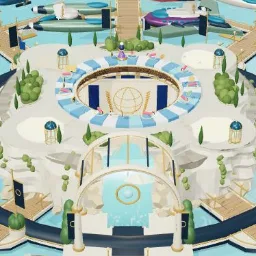
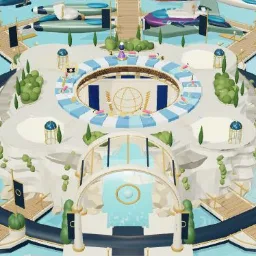
Island 001 opening: the real game controller flies in and suits up into the white ship
- The first-arrival craft is now the actual game controller shell (buttons off),
  its roll window showing the Island 001 treetop inside with fireflies and a glass
  reflection. It flies the whole route: fast travel, reveal, descent, ocean braking.
- 13.4-14.4 s: white armour plates fly in and lock onto the controller (Iron Man
  style), the shell glows white and a soft bloom hands over to the white
  expedition ship, which then unfolds as before.
- First-arrival review gains a Suit chapter; Island 001 voyage portrait refreshed.

Claude-Session: https://claude.ai/code/session_01JiAyTZEzKKBDjh6881R4g6

diff --git a/src/features/gamification/level-worlds/dev/Island001ArrivalController.ts b/src/features/gamification/level-worlds/dev/Island001ArrivalController.ts
@@ -1,0 +1,166 @@
+import * as THREE from 'three';
+import { GLTFLoader } from 'three/addons/loaders/GLTFLoader.js';
+
+/**
+ * Island 001 opening: the real game controller shell flies in — buttons off,
+ * its roll window showing the treetop inside — then suits up in white armour
+ * plates and flashes into the expedition ship's white expansion phase.
+ * Presentation only; never touches gameplay state.
+ */
+const SHELL_URL = new URL('../components/living-controller/controller-shell.glb', import.meta.url).href;
+/** Controller → white-phase transformation window (seconds of the arrival). */
+export const ARRIVAL_CONTROLLER_SUIT_START = 13.4;
+export const ARRIVAL_CONTROLLER_SUIT_END = 14.4;
+/** Share of the suit-up at which the white flash hands over to the ship. */
+export const ARRIVAL_CONTROLLER_HANDOFF = 0.7;
+
+const smooth = (t: number) => { const x = THREE.MathUtils.clamp(t, 0, 1); return x * x * (3 - 2 * x); };
+
+function drawTreetopWindow(): THREE.CanvasTexture {
+  const canvas = document.createElement('canvas');
+  canvas.width = 512; canvas.height = 196;
+  const c = canvas.getContext('2d')!;
+  const r = 60;
+  c.beginPath();
+  c.moveTo(r, 0); c.lineTo(512 - r, 0); c.quadraticCurveTo(512, 0, 512, r); c.lineTo(512, 196 - r);
+  c.quadraticCurveTo(512, 196, 512 - r, 196); c.lineTo(r, 196); c.quadraticCurveTo(0, 196, 0, 196 - r);
+  c.lineTo(0, r); c.quadraticCurveTo(0, 0, r, 0); c.closePath(); c.clip();
+  const sky = c.createLinearGradient(0, 0, 0, 196);
+  sky.addColorStop(0, '#0b2a4a'); sky.addColorStop(0.55, '#1f6f8b'); sky.addColorStop(1, '#f6c77a');
+  c.fillStyle = sky; c.fillRect(0, 0, 512, 196);
+  // Treetop: layered canopy rising from the bottom of the window.
+  const blobs: [number, number, number, string][] = [
+    [256, 250, 150, '#0d4a2c'], [170, 236, 92, '#12643a'], [345, 232, 96, '#12643a'],
+    [256, 190, 88, '#1c8a4a'], [205, 176, 60, '#27a85a'], [312, 172, 64, '#27a85a'], [258, 132, 52, '#3fcf73'],
+  ];
+  for (const [x, y, radius, color] of blobs) {
+    const g = c.createRadialGradient(x - radius * 0.3, y - radius * 0.4, radius * 0.1, x, y, radius);
+    g.addColorStop(0, '#8ef0a8'); g.addColorStop(0.35, color); g.addColorStop(1, '#06301b');
+    c.fillStyle = g; c.beginPath(); c.arc(x, y, radius, 0, Math.PI * 2); c.fill();
+  }
+  // Fireflies / life sparks above the canopy.
+  for (let i = 0; i < 14; i += 1) {
+    const x = 60 + ((i * 97) % 390), y = 20 + ((i * 53) % 90), s = 2 + (i % 3);
+    const g = c.createRadialGradient(x, y, 0, x, y, s * 4);
+    g.addColorStop(0, 'rgba(255,245,190,0.95)'); g.addColorStop(1, 'rgba(255,245,190,0)');
+    c.fillStyle = g; c.fillRect(x - s * 4, y - s * 4, s * 8, s * 8);
+  }
+  // Glass reflection streak.
+  const glass = c.createLinearGradient(0, 0, 512, 196);
+  glass.addColorStop(0.18, 'rgba(255,255,255,0)'); glass.addColorStop(0.28, 'rgba(255,255,255,0.22)'); glass.addColorStop(0.36, 'rgba(255,255,255,0)');
+  c.fillStyle = glass; c.fillRect(0, 0, 512, 196);
+  const texture = new THREE.CanvasTexture(canvas);
+  texture.colorSpace = THREE.SRGBColorSpace;
+  return texture;
+}
+
+export function createIsland001ArrivalController() {
+  const root = new THREE.Group();
+  root.name = 'ISLAND_001_ARRIVAL_CONTROLLER';
+  // Face up, top edge toward the ship's nose (+z), matching the ship's frame.
+  const faceUp = new THREE.Group();
+  faceUp.rotation.set(-Math.PI / 2, 0, 0);
+  const heading = new THREE.Group();
+  heading.rotation.y = Math.PI;
+  heading.scale.setScalar(0.9);
+  heading.add(faceUp);
+  root.add(heading);
+
+  const shellMaterial = new THREE.MeshPhysicalMaterial({
+    color: '#eef5fb', roughness: 0.28, metalness: 0.06, clearcoat: 1, clearcoatRoughness: 0.18,
+    emissive: new THREE.Color('#ffffff'), emissiveIntensity: 0,
+  });
+  const windowTexture = typeof document === 'undefined' ? null : drawTreetopWindow();
+  const windowMaterial = new THREE.MeshBasicMaterial({ map: windowTexture, transparent: true, toneMapped: false });
+  const plateMaterial = new THREE.MeshPhysicalMaterial({ color: '#ffffff', roughness: 0.2, clearcoat: 1, emissive: new THREE.Color('#dff6ff'), emissiveIntensity: 0.4, transparent: true, opacity: 0 });
+  const flashTexture = typeof document === 'undefined' ? null : (() => {
+    const canvas = document.createElement('canvas'); canvas.width = canvas.height = 128;
+    const c = canvas.getContext('2d')!;
+    const g = c.createRadialGradient(64, 64, 0, 64, 64, 64);
+    g.addColorStop(0, 'rgba(255,255,255,1)'); g.addColorStop(0.25, 'rgba(235,250,255,0.85)');
+    g.addColorStop(0.6, 'rgba(190,235,255,0.25)'); g.addColorStop(1, 'rgba(190,235,255,0)');
+    c.fillStyle = g; c.fillRect(0, 0, 128, 128);
+    const texture = new THREE.CanvasTexture(canvas); texture.colorSpace = THREE.SRGBColorSpace; return texture;
+  })();
+  // Soft white bloom, not a hard sphere.
+  const flashMaterial = new THREE.SpriteMaterial({ map: flashTexture, color: '#ffffff', transparent: true, opacity: 0, depthWrite: false, blending: THREE.AdditiveBlending, toneMapped: false });
+  const flash = new THREE.Sprite(flashMaterial);
+  flash.name = 'ARRIVAL_CONTROLLER_WHITE_FLASH';
+  root.add(flash);
+
+  // White armour plates that snap onto the controller during the suit-up.
+  const plateGeometry = new THREE.BoxGeometry(1.1, 0.12, 0.7);
+  const plates = Array.from({ length: 12 }, (_, i) => {
+    const mesh = new THREE.Mesh(plateGeometry, plateMaterial);
+    const angle = (i / 12) * Math.PI * 2;
+    mesh.userData.from = new THREE.Vector3(Math.cos(angle) * 5.2, (i % 3 - 1) * 1.6, Math.sin(angle) * 5.2);
+    mesh.userData.to = new THREE.Vector3(Math.cos(angle) * 1.9, 0.35 + (i % 2) * 0.18, Math.sin(angle) * 1.1);
+    mesh.userData.spin = angle;
+    mesh.visible = false;
+    root.add(mesh);
+    return mesh;
+  });
+
+  let loaded = false;
+  let disposed = false;
+  let shell: THREE.Object3D | null = null;
+  void new GLTFLoader().loadAsync(SHELL_URL).then((gltf) => {
+    if (disposed) return;
+    shell = gltf.scene;
+    shell.scale.z = 1.25;
+    shell.traverse((object) => {
+      const mesh = object as THREE.Mesh;
+      if (!mesh.isMesh) return;
+      const old = Array.isArray(mesh.material) ? mesh.material : [mesh.material];
+      old.forEach((m) => m.dispose());
+      mesh.material = shellMaterial;
+    });
+    shell.updateMatrixWorld(true);
+    // Seat the roll window on the curved face at its real position.
+    const ray = new THREE.Raycaster(new THREE.Vector3(0, 0.9, 20), new THREE.Vector3(0, 0, -1));
+    const hit = ray.intersectObject(shell, true)[0];
+    const windowMesh = new THREE.Mesh(new THREE.PlaneGeometry(1.98, 0.76), windowMaterial);
+    windowMesh.name = 'ARRIVAL_CONTROLLER_TREETOP_WINDOW';
+    windowMesh.position.set(0, 0.9, (hit?.point.z ?? 0.5) + 0.03);
+    faceUp.add(shell, windowMesh);
+    loaded = true;
+  }).catch(() => { loaded = false; });
+
+  /**
+   * @returns whether the controller currently stands in for the ship.
+   * `suit` is 0 before the transformation and 1 after it.
+   */
+  function update(t: number, reduced: boolean): boolean {
+    if (!loaded) { root.visible = false; return false; }
+    const suit = smooth((t - ARRIVAL_CONTROLLER_SUIT_START) / (ARRIVAL_CONTROLLER_SUIT_END - ARRIVAL_CONTROLLER_SUIT_START));
+    const handedOff = reduced ? t >= ARRIVAL_CONTROLLER_SUIT_START : suit >= ARRIVAL_CONTROLLER_HANDOFF;
+    root.visible = t < ARRIVAL_CONTROLLER_SUIT_END;
+    heading.visible = !handedOff;
+    // Suit-up: plates fly in and lock on, the shell glows white, then a flash.
+    const lock = smooth(suit / ARRIVAL_CONTROLLER_HANDOFF);
+    plateMaterial.opacity = reduced ? 0 : Math.min(1, suit * 4) * (1 - smooth((suit - ARRIVAL_CONTROLLER_HANDOFF) / 0.2));
+    plates.forEach((plate) => {
+      plate.visible = !reduced && suit > 0 && suit < 0.95;
+      plate.position.copy(plate.userData.from).lerp(plate.userData.to, lock);
+      plate.rotation.set(0, plate.userData.spin + (1 - lock) * 3, (1 - lock) * 1.4);
+    });
+    shellMaterial.emissiveIntensity = suit * 1.6;
+    heading.scale.setScalar(0.9 * (1 + Math.sin(Math.min(1, suit / ARRIVAL_CONTROLLER_HANDOFF) * Math.PI) * 0.1));
+    const flashAmount = reduced ? 0 : Math.max(0, 1 - Math.abs(suit - ARRIVAL_CONTROLLER_HANDOFF) / 0.22);
+    flashMaterial.opacity = flashAmount * 0.95;
+    flash.scale.setScalar(3 + flashAmount * 9);
+    flash.visible = flashAmount > 0.001;
+    return !handedOff;
+  }
+
+  function dispose() {
+    disposed = true;
+    shell?.traverse((object) => { const mesh = object as THREE.Mesh; if (mesh.isMesh) mesh.geometry.dispose(); });
+    faceUp.traverse((object) => { const mesh = object as THREE.Mesh; if (mesh.isMesh && mesh.geometry) mesh.geometry.dispose(); });
+    plateGeometry.dispose(); flashTexture?.dispose();
+    [shellMaterial, windowMaterial, plateMaterial, flashMaterial].forEach((m) => m.dispose());
+    windowTexture?.dispose();
+  }
+
+  return { root, update, dispose, isLoaded: () => loaded };
+}

diff --git a/src/features/gamification/level-worlds/dev/Island001FirstArrival.ts b/src/features/gamification/level-worlds/dev/Island001FirstArrival.ts
@@ -1,6 +1,7 @@
 import * as THREE from 'three';
 import {createExpeditionShipThreeModel} from './ExpeditionShipThreeModel';
 import {createRobotFamilyModel, type RobotRole} from './RobotFamilyThreeModel';
+import {createIsland001ArrivalController} from './Island001ArrivalController';
 import {FIRST_ARRIVAL_DURATION, arrivalBeat} from '../services/islandRunFirstArrival';
 
 const ease = (t: number) => { const x = THREE.MathUtils.clamp(t, 0, 1); return x*x*(3-2*x); };
@@ -16,6 +17,8 @@ export function createIsland001FirstArrival(scene: THREE.Scene, player: THREE.Gr
   const root = new THREE.Group(); root.name = 'ISLAND_001_FIRST_ARRIVAL'; scene.add(root);
   const ship = createExpeditionShipThreeModel('low');
   const shipPivot = new THREE.Group(); shipPivot.add(ship.root); shipPivot.scale.setScalar(1.05); root.add(shipPivot);
+  // The real game controller flies the route, then suits up into the white ship.
+  const arrivalController = createIsland001ArrivalController(); shipPivot.add(arrivalController.root);
   const crew = createRobotFamilyModel({quality:'low',showAddonRack:false});
   crew.setExternalRootMotion(true); crew.setMotion('idle'); crew.setEmotion('delighted'); root.add(crew.root);
   for (const role of roles) crew.members[role].scale.setScalar(0.24);
@@ -60,6 +63,7 @@ export function createIsland001FirstArrival(scene: THREE.Scene, player: THREE.Gr
     shipPivot.rotation.set(Math.sin(flight*Math.PI)*.18, -.35*(1-flight), Math.sin(flight*Math.PI)*-.48);
     const expansion=segment(t,14,18.4);
     ship.update({timeSeconds:t,pose:'flight',poseProgress:1-expansion,thrust:t<11?.7:.12,hover:t<14?.5:.04,reducedMotion:true});
+    ship.root.visible=!arrivalController.update(t,reduced);
     // Parent carries the trajectory; the canonical model owns its transformation.
     thrusters.forEach(m=>{m.visible=t<13; m.scale.y=1+Math.sin(t*20)*.08;});
     stars.position.copy(shipPivot.position); stars.position.z+=(t*35)%4;
@@ -147,7 +151,7 @@ export function createIsland001FirstArrival(scene: THREE.Scene, player: THREE.Gr
     return t>=FIRST_ARRIVAL_DURATION;
   }
   return {root, update, handoffTarget:handoff.target, dispose(){
-    scene.background=originalBackground;scene.fog=originalFog;root.remove(shipPivot,crew.root);ship.dispose();crew.dispose();
+    scene.background=originalBackground;scene.fog=originalFog;root.remove(shipPivot,crew.root);arrivalController.dispose();ship.dispose();crew.dispose();
     root.traverse(o=>{if(o instanceof THREE.Mesh||o instanceof THREE.Line){o.geometry.dispose(); const ms=Array.isArray(o.material)?o.material:[o.material];ms.forEach(m=>m.dispose());}});
     thrusters.forEach(m=>m.geometry.dispose());glowMat.dispose();scene.remove(root);
   }};

diff --git a/src/dev/FirstArrivalReview.tsx b/src/dev/FirstArrivalReview.tsx
@@ -30,7 +30,7 @@ function Review() {
     firstArrivalPreviewTime={previewTime} firstArrivalActive={boardIsland===1} firstArrivalSkip={skip} onFirstArrivalBeat={setBeat} onFirstArrivalComplete={()=>{setDone(true);if(recorder.current?.state==='recording')recorder.current.stop();}} interactionPaused={boardIsland===1&&!done}/>
     {showWelcome ? <WelcomePackModal open autoCollect deferCreaturePack onClaim={previewClaim} onClose={()=>{setShowWelcome(false);setWelcomeComplete(true);}} /> : null}
     <div className="arrival-caption" style={{visibility:showWelcome?'hidden':'visible'}}><div><div className="arrival-caption__brand">HABITGAME / FIRST LIGHT</div>
-      <div className="arrival-review-chapters"><button onClick={()=>{setBoardIsland(boardIsland===1?5:1);setCollected([]);}}>Island {boardIsland===1?'005':'001'}</button>{boardIsland===5 ? <button onClick={()=>setCollected([0,1,2])}>Hide collected fragments</button>:null}{([['Travel',2],['Engines',4.2],['Wide',6.6],['Descent',9],['Ocean',13],['Unfold',17],['Cabin',19.8],['Launch',21.3],['Crew',23],['Settled',25.8],['Board',28]] as const).map(([label,t])=><button key={label} onClick={()=>{setDone(false);setPreviewTime(t);}}>{label}</button>)}</div><button className="arrival-record" onClick={record} disabled={recordStatus==='Recording…'}>{recordStatus || 'Record preview'}</button></div>
+      <div className="arrival-review-chapters"><button onClick={()=>{setBoardIsland(boardIsland===1?5:1);setCollected([]);}}>Island {boardIsland===1?'005':'001'}</button>{boardIsland===5 ? <button onClick={()=>setCollected([0,1,2])}>Hide collected fragments</button>:null}{([['Travel',2],['Engines',4.2],['Wide',6.6],['Descent',9],['Ocean',13],['Suit',13.95],['Unfold',17],['Cabin',19.8],['Launch',21.3],['Crew',23],['Settled',25.8],['Board',28]] as const).map(([label,t])=><button key={label} onClick={()=>{setDone(false);setPreviewTime(t);}}>{label}</button>)}</div><button className="arrival-record" onClick={record} disabled={recordStatus==='Recording…'}>{recordStatus || 'Record preview'}</button></div>
       <div className="arrival-caption__bottom"><div><small>{beat}</small><h1>{done ? 'Welcome to Island 001.' : 'A new world. A new beginning.'}</h1></div>
         <button onClick={()=>{if(done || previewTime !== undefined){setDone(false);setSkip(false);setShowWelcome(false);setWelcomeComplete(false);setPreviewTime(undefined);setGeneration(x=>x+1);}else setSkip(true);}}>{done || previewTime !== undefined?'Replay arrival':'Skip arrival'}</button>
       </div></div></>;

diff --git a/src/features/gamification/level-worlds/services/__tests__/island001ArrivalController.test.ts b/src/features/gamification/level-worlds/services/__tests__/island001ArrivalController.test.ts
@@ -1,0 +1,19 @@
+import { ARRIVAL_CONTROLLER_HANDOFF, ARRIVAL_CONTROLLER_SUIT_END, ARRIVAL_CONTROLLER_SUIT_START } from '../../dev/Island001ArrivalController';
+import { assert, type TestCase } from './testHarness';
+
+export const island001ArrivalControllerTests: TestCase[] = [
+  {
+    name: 'Island 001 opening: the real controller flies in and suits up into the white ship before the unfold',
+    run: async () => {
+      // @ts-ignore Node-only source contract check.
+      const fs = await import('fs');
+      const arrival = fs.readFileSync('src/features/gamification/level-worlds/dev/Island001FirstArrival.ts', 'utf8');
+      const controller = fs.readFileSync('src/features/gamification/level-worlds/dev/Island001ArrivalController.ts', 'utf8');
+      assert(controller.includes("'../components/living-controller/controller-shell.glb'"), 'uses the actual game controller shell');
+      assert(controller.includes('ARRIVAL_CONTROLLER_TREETOP_WINDOW') && controller.includes('new THREE.Vector3(0, 0.9, 20)'), 'the roll window shows the treetop, seated on the face');
+      assert(arrival.includes('ship.root.visible=!arrivalController.update(t,reduced);'), 'the ship only appears once the controller hands off');
+      assert(ARRIVAL_CONTROLLER_SUIT_START >= 13 && ARRIVAL_CONTROLLER_SUIT_END <= 14.5, 'suit-up lands between ocean braking and the 14 s unfold');
+      assert(ARRIVAL_CONTROLLER_HANDOFF > 0.5 && ARRIVAL_CONTROLLER_HANDOFF < 1, 'the flash covers the swap');
+    },
+  },
+];

diff --git a/src/features/gamification/level-worlds/services/__tests__/runIslandRunServiceTests.ts b/src/features/gamification/level-worlds/services/__tests__/runIslandRunServiceTests.ts
@@ -3,6 +3,7 @@ import { landmarkAttentionTests } from './landmarkAttention.test';
 import {islandRunFirstArrivalTests} from './islandRunFirstArrival.test';
 import { islandRunFastBuildTests } from './islandRunFastBuild.test';
 import { crystalMinersTests } from './crystalMiners.test';
+import { island001ArrivalControllerTests } from './island001ArrivalController.test';
 import { assemblyTopbarBlastTests } from './assemblyTopbarBlast.test';
 import { fishingCastSkillTests } from './fishingCastSkill.test';
 import { compassBookIconCueTests } from './compassBookIconCue.test';
@@ -300,6 +301,7 @@ const suites: Array<{ label: string; tests: TestCase[] }> = [
   { label: 'islandRunFirstArrival', tests: islandRunFirstArrivalTests },
   { label: 'islandRunFastBuild', tests: islandRunFastBuildTests },
   { label: 'crystalMiners', tests: crystalMinersTests },
+  { label: 'island001ArrivalController', tests: island001ArrivalControllerTests },
   { label: 'assemblyTopbarBlast', tests: assemblyTopbarBlastTests },
   { label: 'fishingCastSkill', tests: fishingCastSkillTests },
   { label: 'compassBookIconCue', tests: compassBookIconCueTests },
